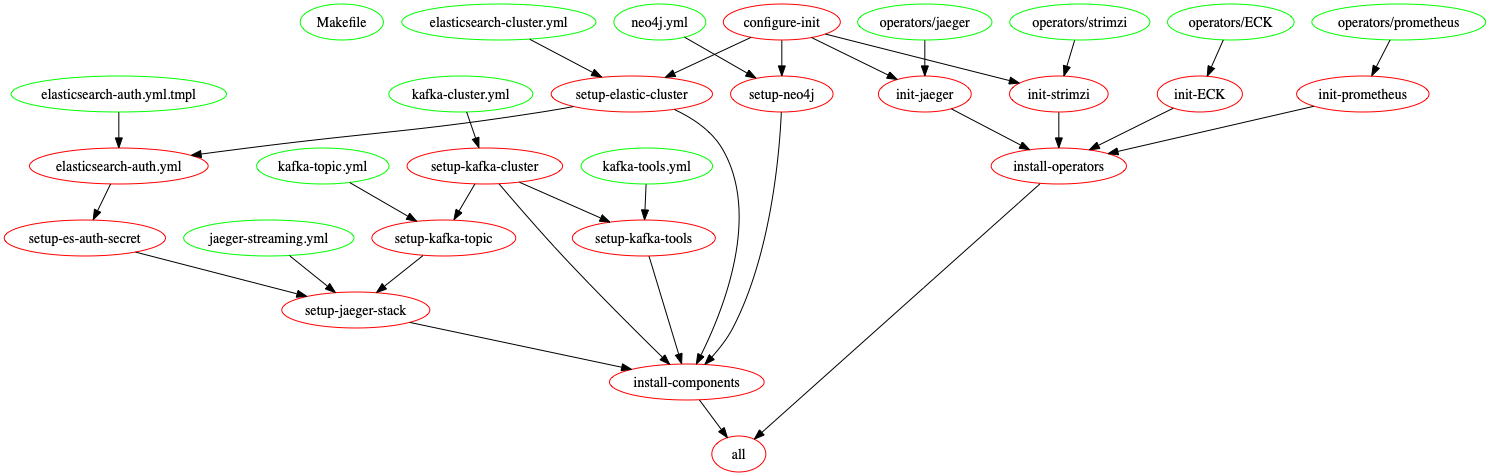
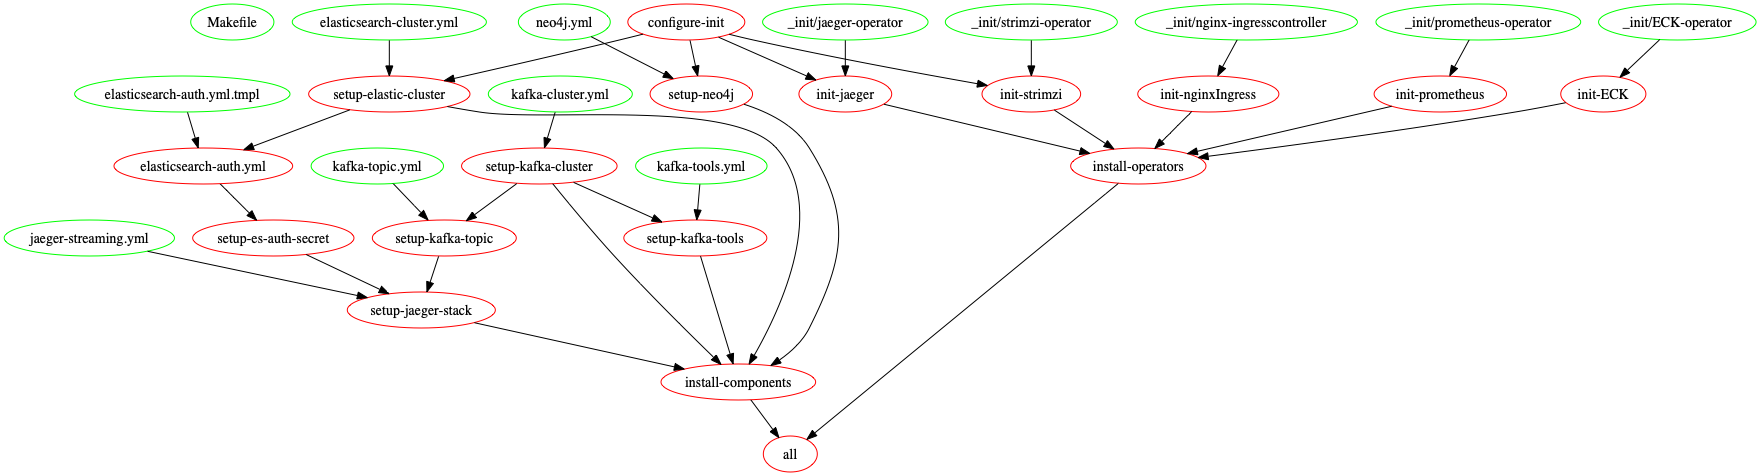
Separation of Initialization of Cluster and Deployment
preparing kustimzations

diff --git a/provision-k8s/_init/README.md b/provision-k8s/_init/README.md
@@ -1,0 +1,3 @@
+# Disclaimer
+
+This directory is filled by Makefile rules that download and tune configuration gathered from Internet.
